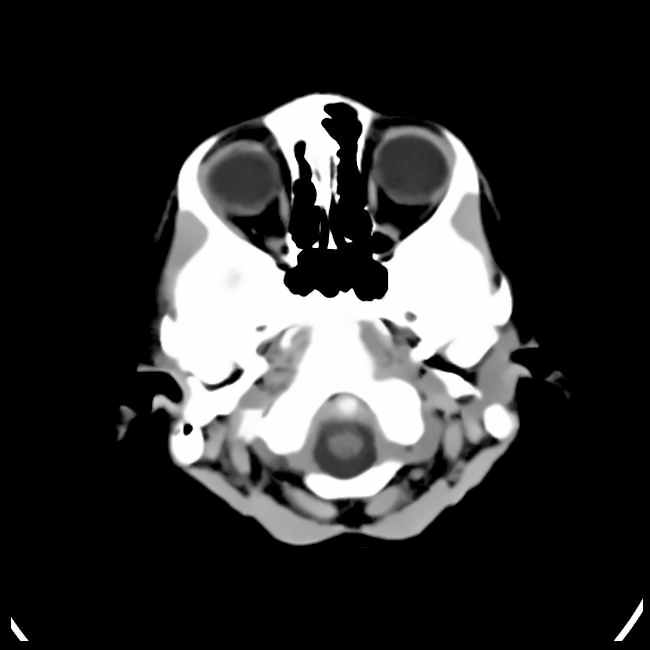
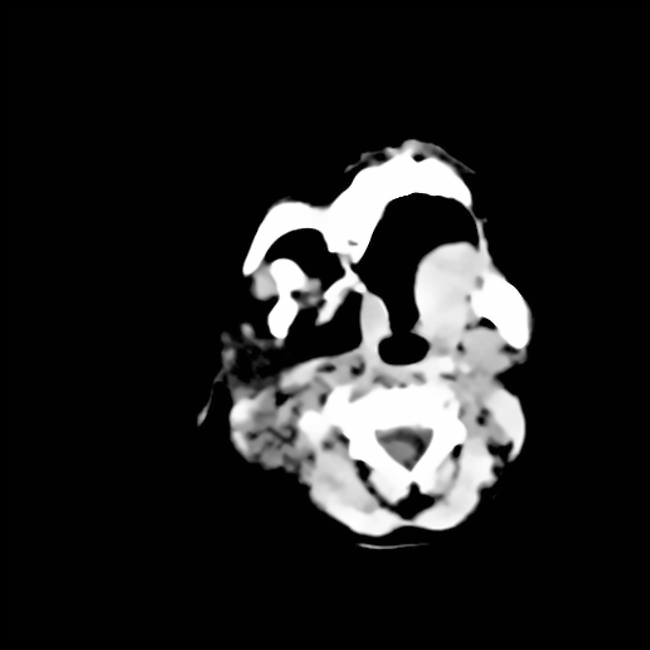
Updated...

Changed region(s): [[0.1846, 0.1231, 0.8615, 0.8615], [0.9538, 0.9231, 1.0, 0.9846], [0.0, 0.9538, 0.0615, 0.9846]]

diff --git a/templates/AdminHome.html b/templates/AdminHome.html
@@ -11925,7 +11925,7 @@ section.w3l-grid-quote h3 {
         <ul class="navbar-nav ml-auto">
           <li class="nav-item"><a class="nav-link" href="/AdminHome">User Info</a></li>
           <li class="nav-item"><a class="nav-link" href="/DoctorInfo">Doctor Info</a></li>
-          <li class="nav-item"><a class="nav-link" href="/ADrugInfo">Medicine</a></li>
+          <li class="nav-item"><a class="nav-link" href="/ADrugInfo">Medicine Info</a></li>
 
           <li class="nav-item"><a class="nav-link" href="/">Logout</a></li>
         </ul>

diff --git a/templates/DoctorInfo.html b/templates/DoctorInfo.html
@@ -11925,7 +11925,7 @@ section.w3l-grid-quote h3 {
         <ul class="navbar-nav ml-auto">
           <li class="nav-item"><a class="nav-link" href="/AdminHome">User Info</a></li>
           <li class="nav-item"><a class="nav-link" href="/DoctorInfo">Doctor Info</a></li>
-          <li class="nav-item"><a class="nav-link" href="/ADrugInfo">Medicine</a></li>
+          <li class="nav-item"><a class="nav-link" href="/ADrugInfo">Medicine Info</a></li>
 
           <li class="nav-item"><a class="nav-link" href="/">Logout</a></li>
         </ul>

diff --git a/templates/ASD.html b/templates/ASD.html
@@ -11961,7 +11961,7 @@ section.w3l-grid-quote h3 {
 <!-- Contact section -->
 <section class="w3l-contact py-5" id="contact" align="center">
   <div class="container py-lg-3" align="center">
-    <h3 class="title mb-4" style=" bottom margin:10px; ">New  User Register Here..! </h3>
+    <h3 class="title mb-4" style=" bottom margin:10px; ">Answer these 10 FAQ questions to check for ASD symptoms! </h3>
       <div>
 
       </div>

diff --git a/App.py b/App.py
@@ -62,11 +62,11 @@ def adminlogin():
             cur = conn.cursor()
             cur.execute("SELECT * FROM regtb ")
             data = cur.fetchall()
-            flash("Login successfully")
+            flash("Logged in successfully")
             return render_template('AdminHome.html', data=data)
 
         else:
-            flash("UserName Or Password Incorrect!")
+            flash("Incorrect username or password!")
             return render_template('AdminLogin.html')
 
 
@@ -89,7 +89,7 @@ def ADRemove():
     conn.commit()
     conn.close()
 
-    flash('Doctor  info Remove Successfully!')
+    flash('Doctor info removed successfully!')
 
     conn = mysql.connector.connect(user='root', password='', host='localhost', database='brainasddb')
     cur = conn.cursor()
@@ -108,7 +108,7 @@ def AURemove():
     conn.commit()
     conn.close()
 
-    flash('User  info Remove Successfully!')
+    flash('User info removed successfully!')
 
     conn = mysql.connector.connect(user='root', password='', host='localhost', database='brainasddb')
     cur = conn.cursor()
@@ -150,7 +150,7 @@ def newdoct():
             "INSERT INTO doctortb VALUES ('','" + name + "','" + email + "','" + mobile + "','" + address + "','" + specialist + "','" + uname + "','" + password + "')")
         conn.commit()
         conn.close()
-        flash('Doctor  Register Successfully')
+        flash('Doctor registered successfully.')
         return render_template('DoctorLogin.html')
 
 
@@ -167,14 +167,14 @@ def doctlogin():
         data = cursor.fetchone()
         if data is None:
 
-            flash('Username or Password is wrong')
+            flash('Username or password is incorrect.')
             return render_template('DoctorLogin.html', data=data)
         else:
             conn = mysql.connector.connect(user='root', password='', host='localhost', database='brainasddb')
             cur = conn.cursor()
             cur.execute("SELECT * FROM doctortb where username='" + username + "' and Password='" + password + "'")
             data = cur.fetchall()
-            flash("Login successfully")
+            flash("Logged in successfully.")
             return render_template('DoctorHome.html', data=data)
 
 
@@ -216,7 +216,7 @@ def Accept():
     conn.commit()
     conn.close()
 
-    flash('Appointment Status  Update  Successfully!')
+    flash('Appointment status updated successfully!')
 
     username = session['ename']
     conn = mysql.connector.connect(user='root', password='', host='localhost', database='brainasddb')
@@ -243,7 +243,7 @@ def Reject():
     conn.commit()
     conn.close()
 
-    flash('Appointment Status  Update  Successfully!')
+    flash('Appointment status updated successfully!')
 
     username = session['ename']
     conn = mysql.connector.connect(user='root', password='', host='localhost', database='brainasddb')
@@ -267,7 +267,7 @@ def AssignDrug():
     if st == "Accept":
         return render_template('DAssignDrug.html')
     else:
-        flash("Appointment Reject")
+        flash("Appointment Rejected.")
         username = session['ename']
         conn = mysql.connector.connect(user='root', password='', host='localhost', database='brainasddb')
         cur = conn.cursor()
@@ -368,7 +368,7 @@ def newuser():
             "INSERT INTO regtb VALUES ('','" + name + "','" + email + "','" + mobile + "','" + address + "','" + uname + "','" + password + "')")
         conn.commit()
         conn.close()
-        flash('User Register successfully')
+        flash('User registered successfully.')
 
     return render_template('UserLogin.html')
 
@@ -386,7 +386,7 @@ def userlogin():
         data = cursor.fetchone()
         if data is None:
 
-            flash('Username or Password is wrong')
+            flash('Username or password is incorrect.')
             return render_template('UserLogin.html')
         else:
 
@@ -394,7 +394,7 @@ def userlogin():
             cur = conn.cursor()
             cur.execute("SELECT * FROM regtb where username='" + username + "' and Password='" + password + "'")
             data = cur.fetchall()
-            flash("Login successfully")
+            flash("Logged in successfully.")
 
             return render_template('UserHome.html', data=data)
 
@@ -436,7 +436,7 @@ def answer():
         if int(ccc) > 5:
             return render_template('ASD1.html')
         else:
-            flash('Your Are Perfect..!')
+            flash('You are perfect..!')
             return render_template('ASD.html')
 
 
@@ -516,7 +516,7 @@ def ViewDoctor():
             if data is None:
                 uname = session['uname']
 
-                flash('No Doctor Found!')
+                flash('No doctor found.')
                 conn = mysql.connector.connect(user='root', password='', host='localhost', database='brainasddb')
                 cur = conn.cursor()
                 cur.execute("SELECT * FROM regtb where username='" + uname + "' ")
@@ -573,7 +573,7 @@ def appointment():
 
         else:
 
-            return 'Incorrect username / password !'
+            return 'Incorrect username or password!'
 
         conn = mysql.connector.connect(user='root', password='', host='localhost', database='brainasddb')
         cursor = conn.cursor()
